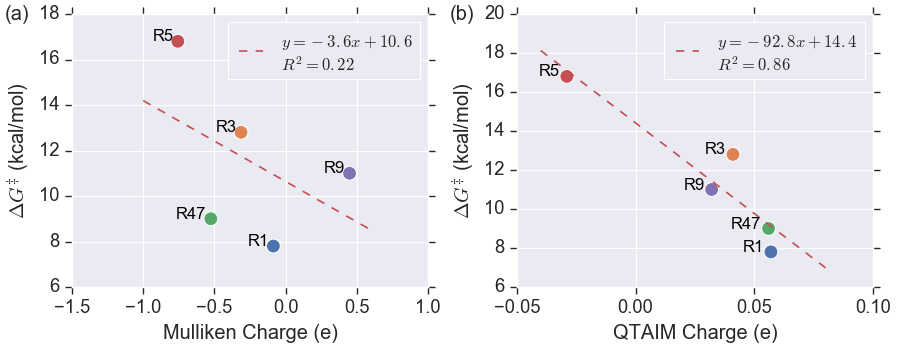
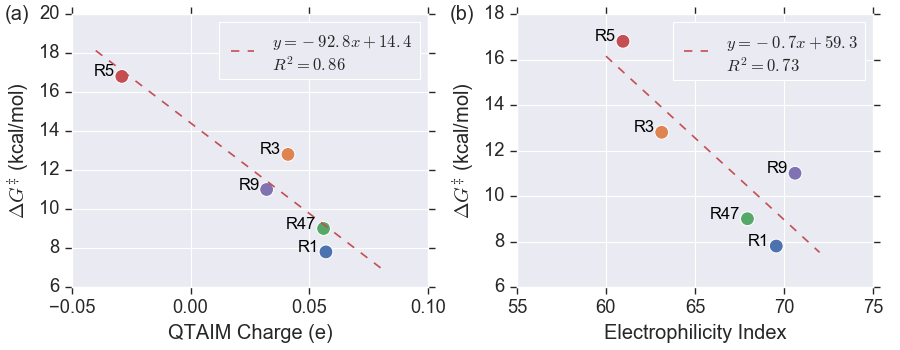
Updated figures for charges

diff --git a/QM/visualG/plot_config.py b/QM/visualG/plot_config.py
@@ -8,8 +8,8 @@ Though recognition of my effort is appreciated! XD
 
 
 charge_list = ["Mulliken", "NBO", "MK", "Hirshfeld", "CM5", "QTAIM", "ChelpG", "Omega"]
-charge_list_A = ["Mulliken", "QTAIM"]
-charge_list_B = ["NBO", "MK", "Hirshfeld", "CM5", "ChelpG", "Omega"]
+charge_list_A = ["QTAIM", "Omega"]
+charge_list_B = ["Mulliken", "NBO", "MK", "Hirshfeld", "CM5", "ChelpG"]
 DI_list = ["Thiolate", "Inhibitor", "Activation", "Interaction"]
 
 benchmarking_data = {"Measure": ["MAD", "MAD", "MAD", "MAD", "MAD", "MAD", "MAD", "MAD", "MAD", "MAD",
